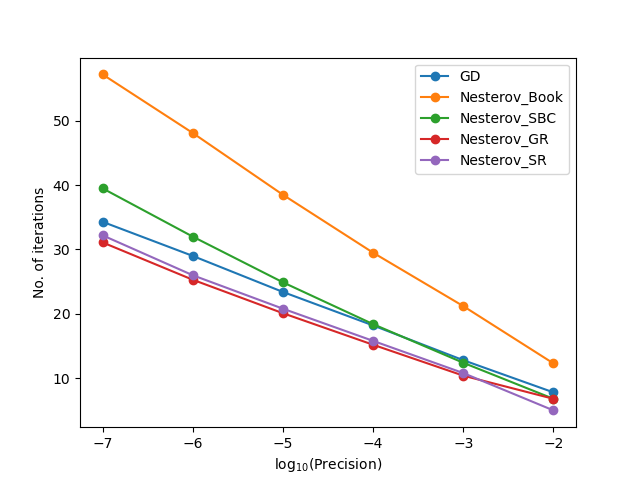
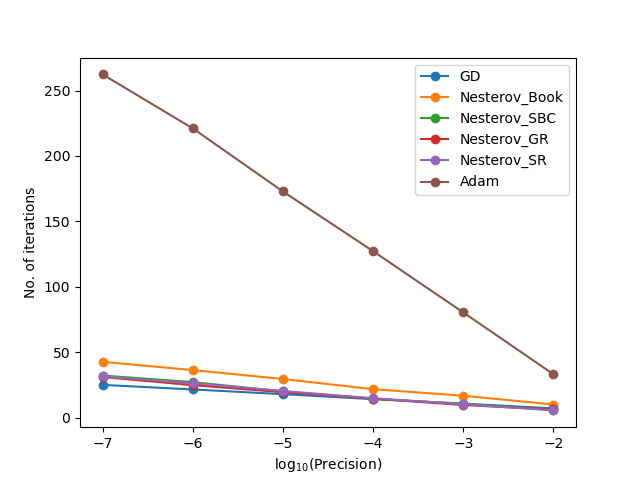
Added plots

diff --git a/QBM_Plot.py b/QBM_Plot.py
@@ -82,7 +82,7 @@ optimizer_list = ['GD', 'Nesterov_Book', 'Nesterov_SBC', 'Nesterov_GR', 'Nestero
 prec_list = [1e-02, 1e-03, 1e-04, 1e-05, 1e-06, 1e-07]                                 # Precisions for which to compare the optimizers
 model = "Random Ising model"                                                      # Model to do the comparison for
 n = 8                                                                             # Amount of qubits to do the comparison for
-H_number = 3                                                                           # Hamiltonian to do the comparison for (this corresponds to the J/h ratio in case of the Uniform Ising model)
+H_number = 2                                                                           # Hamiltonian to do the comparison for (this corresponds to the J/h ratio in case of the Uniform Ising model)
 reverse_plot = False                                                                    # Whether to reverse the x-axis or not
 
 # Data file
